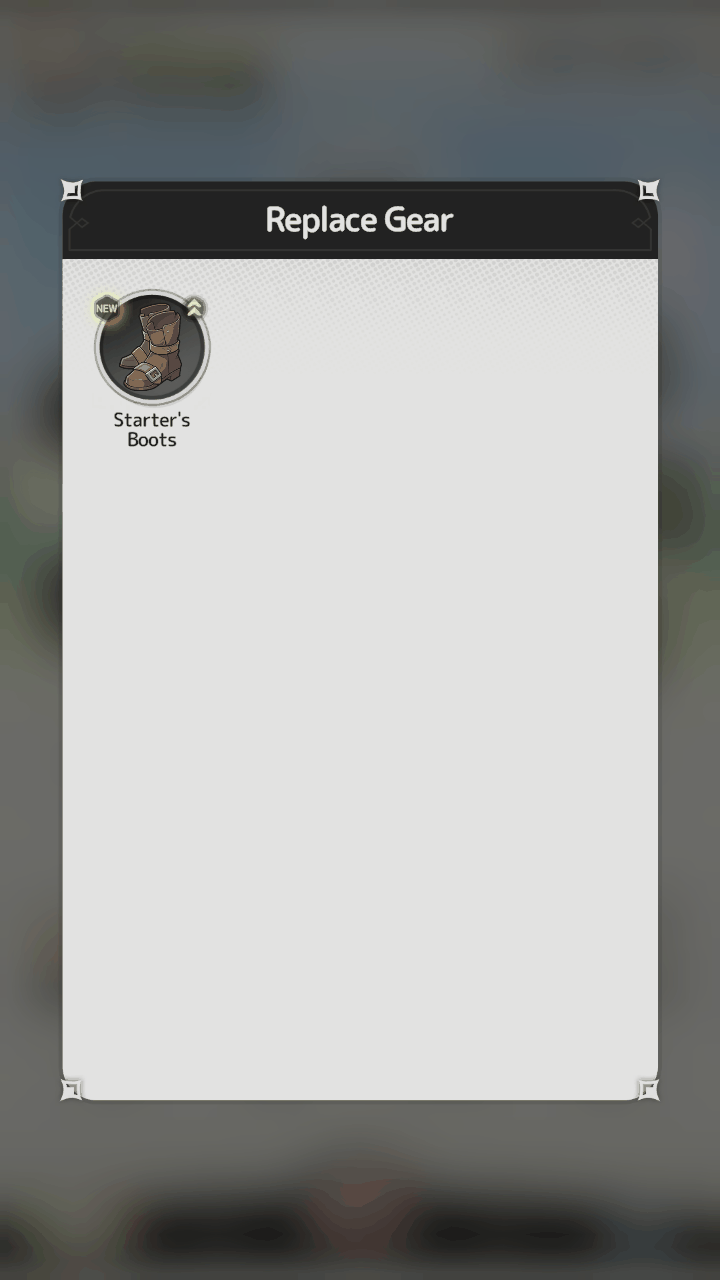
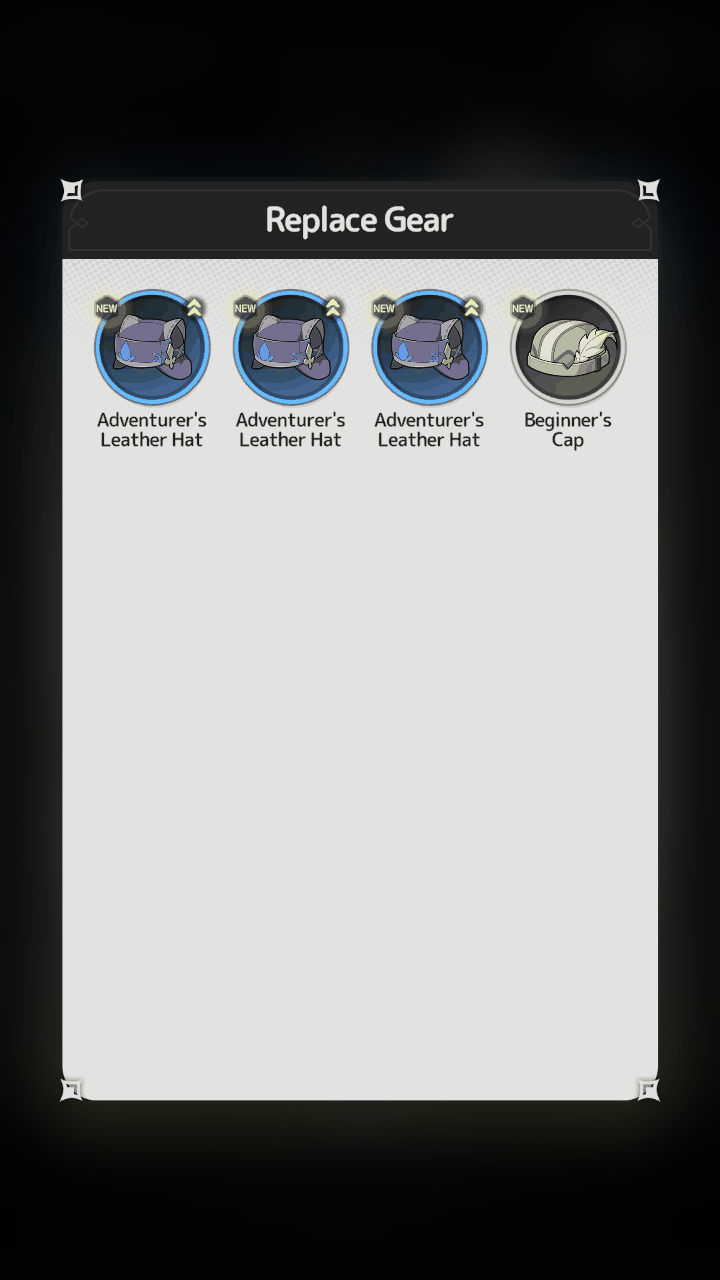
Strengthen: equip better gear from the profile by power compare; Gate of Power rule; fog walk stops on walls and repeated cards

diff --git a/sxs/strengthen.py b/sxs/strengthen.py
@@ -37,6 +37,11 @@ CHARM_SLOTS = [(626, 268), (626, 384), (626, 500), (626, 616)]  # loadout editor
 CHARM_LIST = [(100, 930), (230, 930), (360, 930), (490, 930), (620, 930)]  # Charm tab, owned and unequipped
 CHARM_EQUIP = (360, 898)  # charm card's Equip button
 CHARM_TAB = (400, 800)  # loadout editor opens on the Technique tab
+PROFILE_GEAR_SLOTS = [(110, 754), (234, 754), (360, 754), (484, 754)]  # player profile: Equip row
+GEAR_CARD_BUTTON = (360, 880)  # single gear card: Replace (or Equip)
+GEAR_LIST_FIRST = (150, 345)  # Replace Gear list, sorted best first (green up arrow = upgrade)
+GEAR_COMPARE_REPLACE = (536, 896)  # side-by-side compare: Replace under the new item
+GEAR_POWER_ROIS = ([20, 520, 200, 100], [370, 520, 200, 100])  # power under each compared item: equipped, new
 FILLED_SAT = 60  # mean HSV saturation over a slot/list icon: coloured icon above, empty grey disc below
 
 
@@ -145,6 +150,44 @@ class Strengthener:
             log.info("charm equipped into slot %s", empty[0])
         self._tap(nav.BACK_ARROW, 2)
         return equipped
+
+    def _power(self, roi) -> float:
+        for t, _ in self.det.read_text(roi):
+            m = re.search(r"(\d+(?:\.\d+)?)(K?)$", t.replace(",", ""))  # the swords icon OCRs as a stray char
+            if m:
+                return float(m.group(1)) * (1000 if m.group(2) else 1)
+        return 0.0
+
+    def equip_better_gear(self) -> int:
+        """From the player profile: for each Equip slot, open Replace Gear, take the top candidate (the list is sorted
+        best first) and replace only if the comparison shows a higher power number for it. Enhancement levels carry
+        over to the new item (Beginner's Cap +10 -> Adventurer's Leather Hat +10). Returns the number replaced."""
+        replaced = 0
+        for slot in PROFILE_GEAR_SLOTS:
+            self._tap(slot, 2)
+            if not any(re.fullmatch(r"Replace|Equip", t) for t, _ in self.det.read_text([200, 840, 320, 90])):
+                self._tap((360, 1230), 1.5)  # nothing to change here: close the card
+                continue
+            self._tap(GEAR_CARD_BUTTON, 2.5)
+            if not any("Replace Gear" in t for t, _ in self.det.read_text([150, 190, 420, 60])):
+                self._tap((360, 1230), 1.5)
+                continue
+            self._tap(GEAR_LIST_FIRST, 2)
+            old, new = (self._power(r) for r in GEAR_POWER_ROIS)
+            if new > old > 0 or (new > 0 and old == 0):
+                # The cards' height depends on the item's stat lines: find the new item's Replace button.
+                button = [b for t, b in self.det.read_text([370, 700, 350, 400]) if re.fullmatch(r"Replace", t)]
+                x, y, w, h = button[0] if button else (*GEAR_COMPARE_REPLACE, 0, 0)
+                self._tap((x + w // 2, y + h // 2), 2.5)
+                replaced += 1
+                log.info("gear slot %s: replaced (%g -> %g power)", slot, old, new)
+            else:
+                log.info("gear slot %s: kept (%g vs %g)", slot, old, new)
+                self._tap((360, 1250), 1.5)
+                self._tap((360, 1250), 1.5)
+            if self.det.detect().state != "player_profile":
+                self._tap((360, 1250), 1.5)
+        return replaced
 
     def run(self) -> None:
         self.claim_cart()

diff --git a/sxs/fogwalk.py b/sxs/fogwalk.py
@@ -23,7 +23,7 @@ import numpy as np
 from . import goto, minimap, nav
 from .decide import Context, Decider
 from .device import Device, banner, save_unknown
-from .explore import PLAYER_NAME, Heartbeat
+from .explore import PLAYER_NAME, REPEAT_LIMIT, Heartbeat
 from .state import StateDetector
 
 log = logging.getLogger("sxs.fogwalk")
@@ -100,6 +100,7 @@ def walk(dev: Device, det: StateDetector, minutes: float = 10, area: Optional[st
     last_xy, progress_at = None, time.monotonic()
     home_area, strayed = area, False
     visited: set[str] = set()
+    repeats, last_card = 0, None
     if area:
         goto.go_to(dev, det, area)
     beat = Heartbeat()
@@ -179,8 +180,16 @@ def walk(dev: Device, det: StateDetector, minutes: float = 10, area: Optional[st
         else:
             # Cards, dialogs and unknown popups: the same rules as the quest loop.
             card, choice = decider.decide(ctx)
+            repeats = repeats + 1 if card.title == last_card else 0
+            last_card = card.title
             dev.tap(*choice.point)
             time.sleep(3)
+            if choice.kind == "power_gate":
+                log.info("blocked by %r (needs more power): this area's wall", card.title)
+                return "power_gate"
+            if repeats >= REPEAT_LIMIT:
+                log.warning("card %r keeps coming back; stopping", card.title)
+                return "repeating_card"
     return "timeout"
 
 
